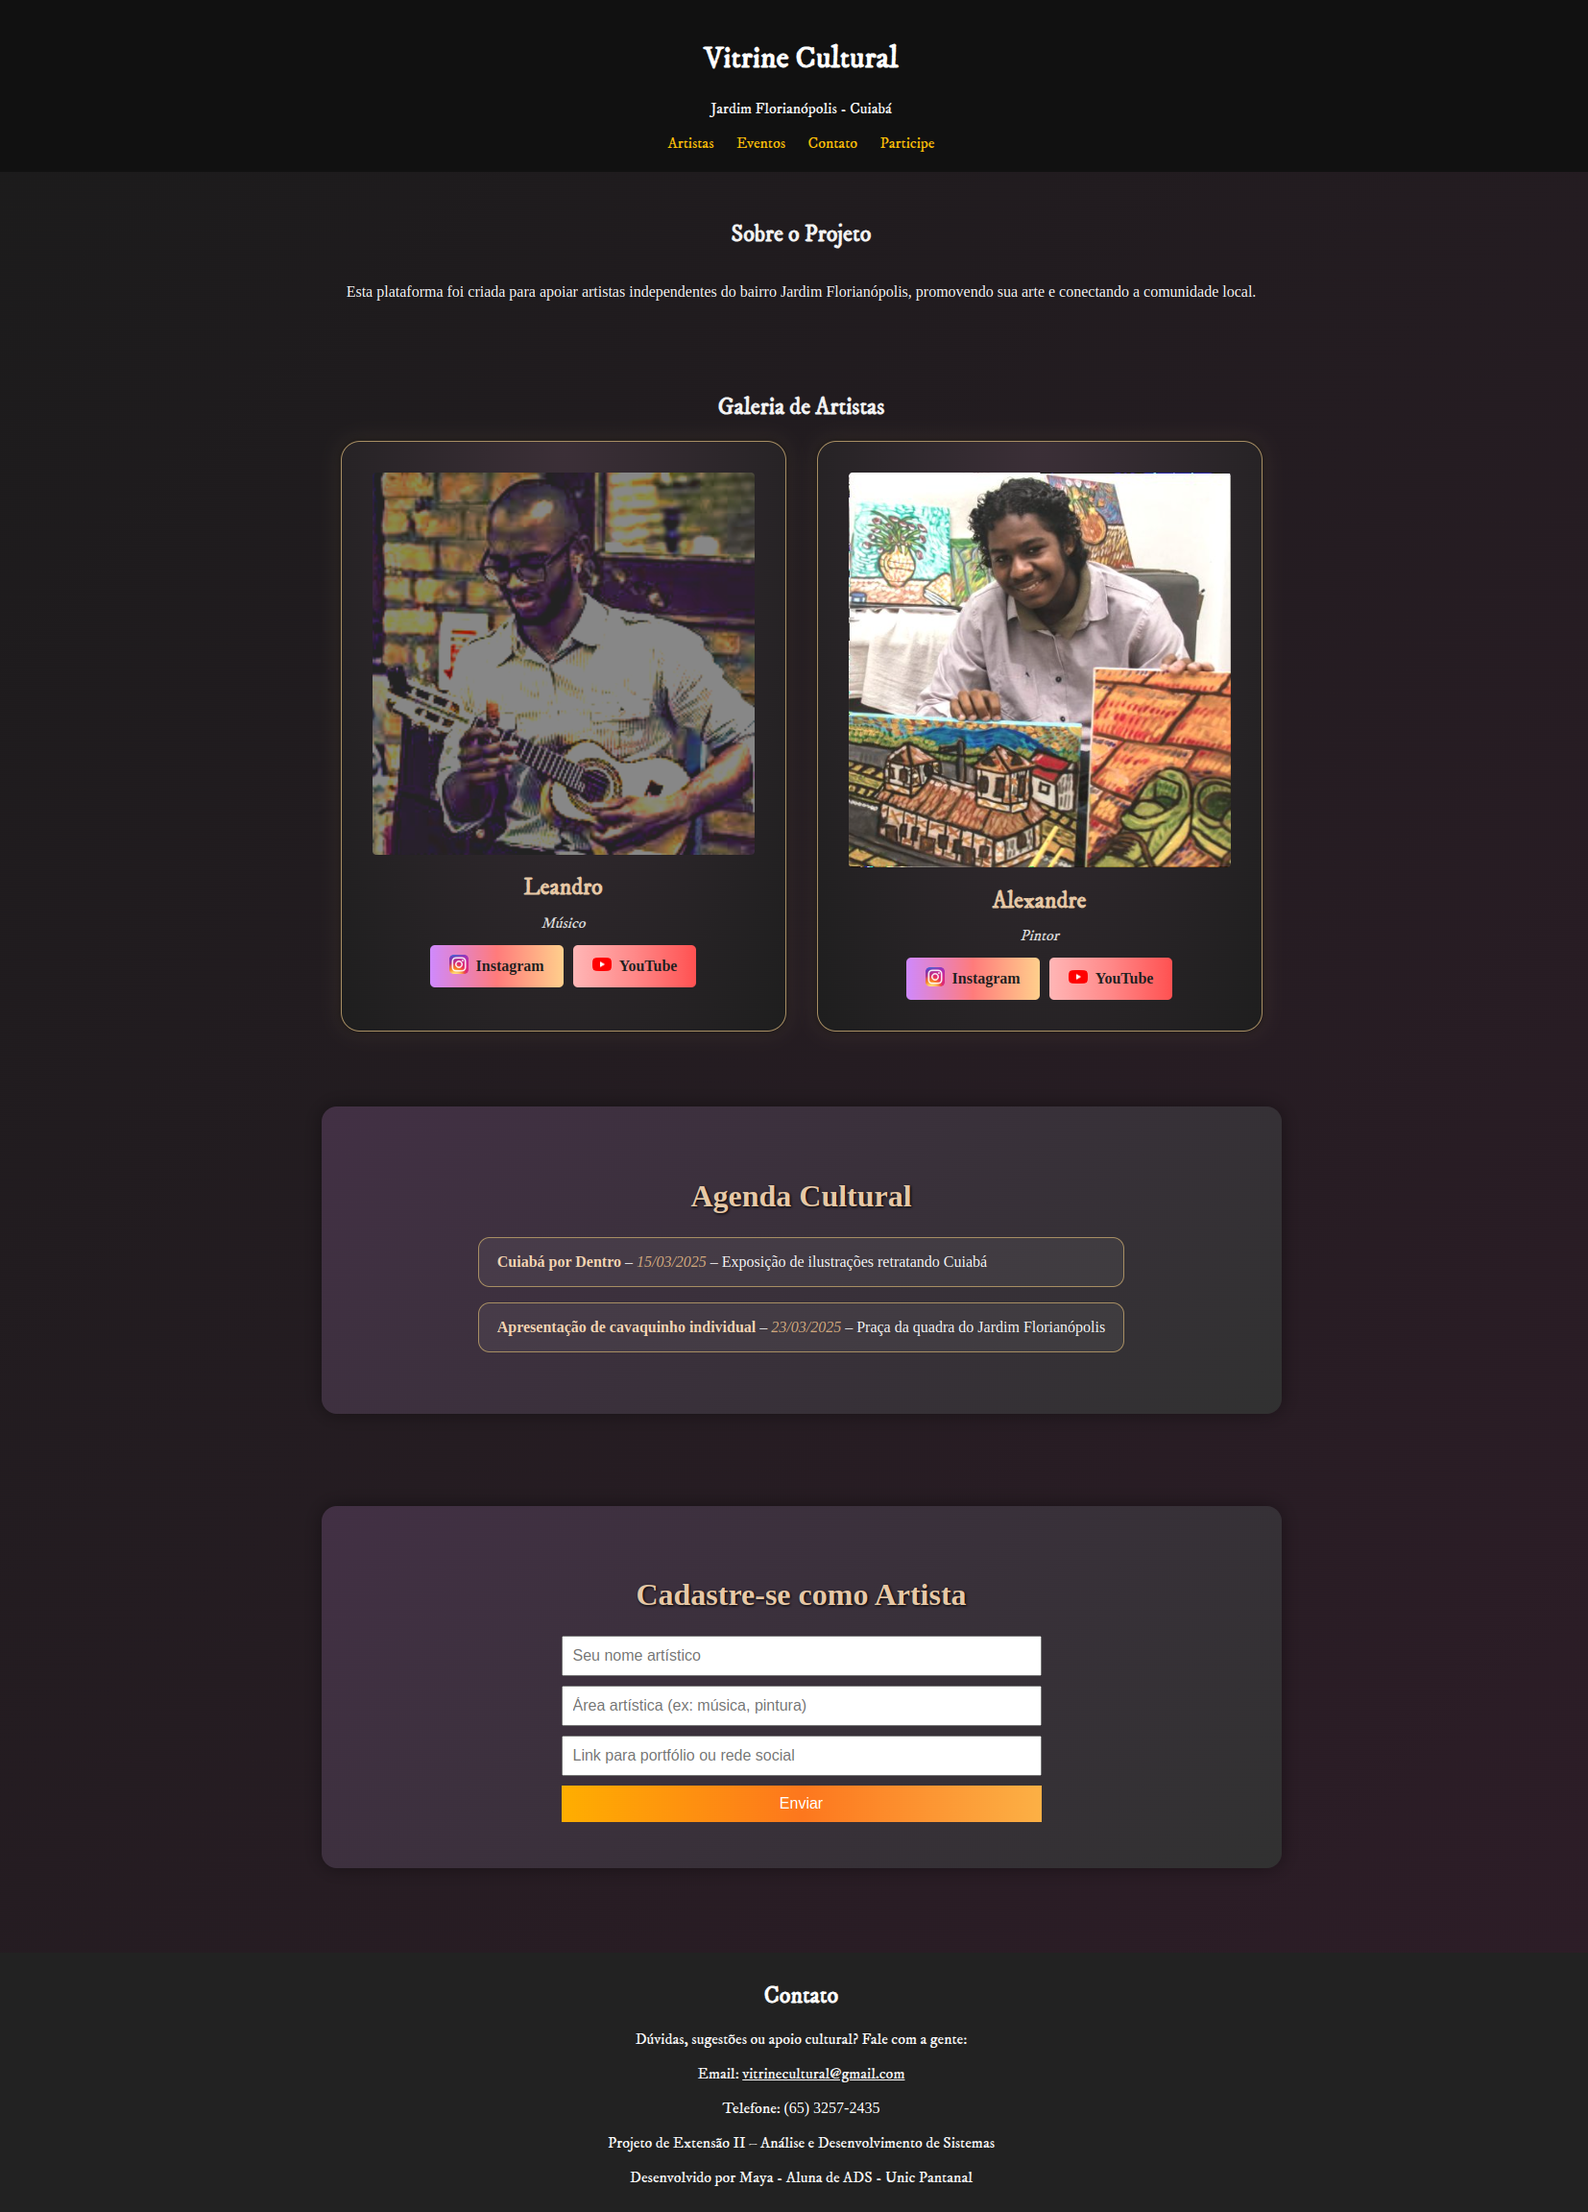
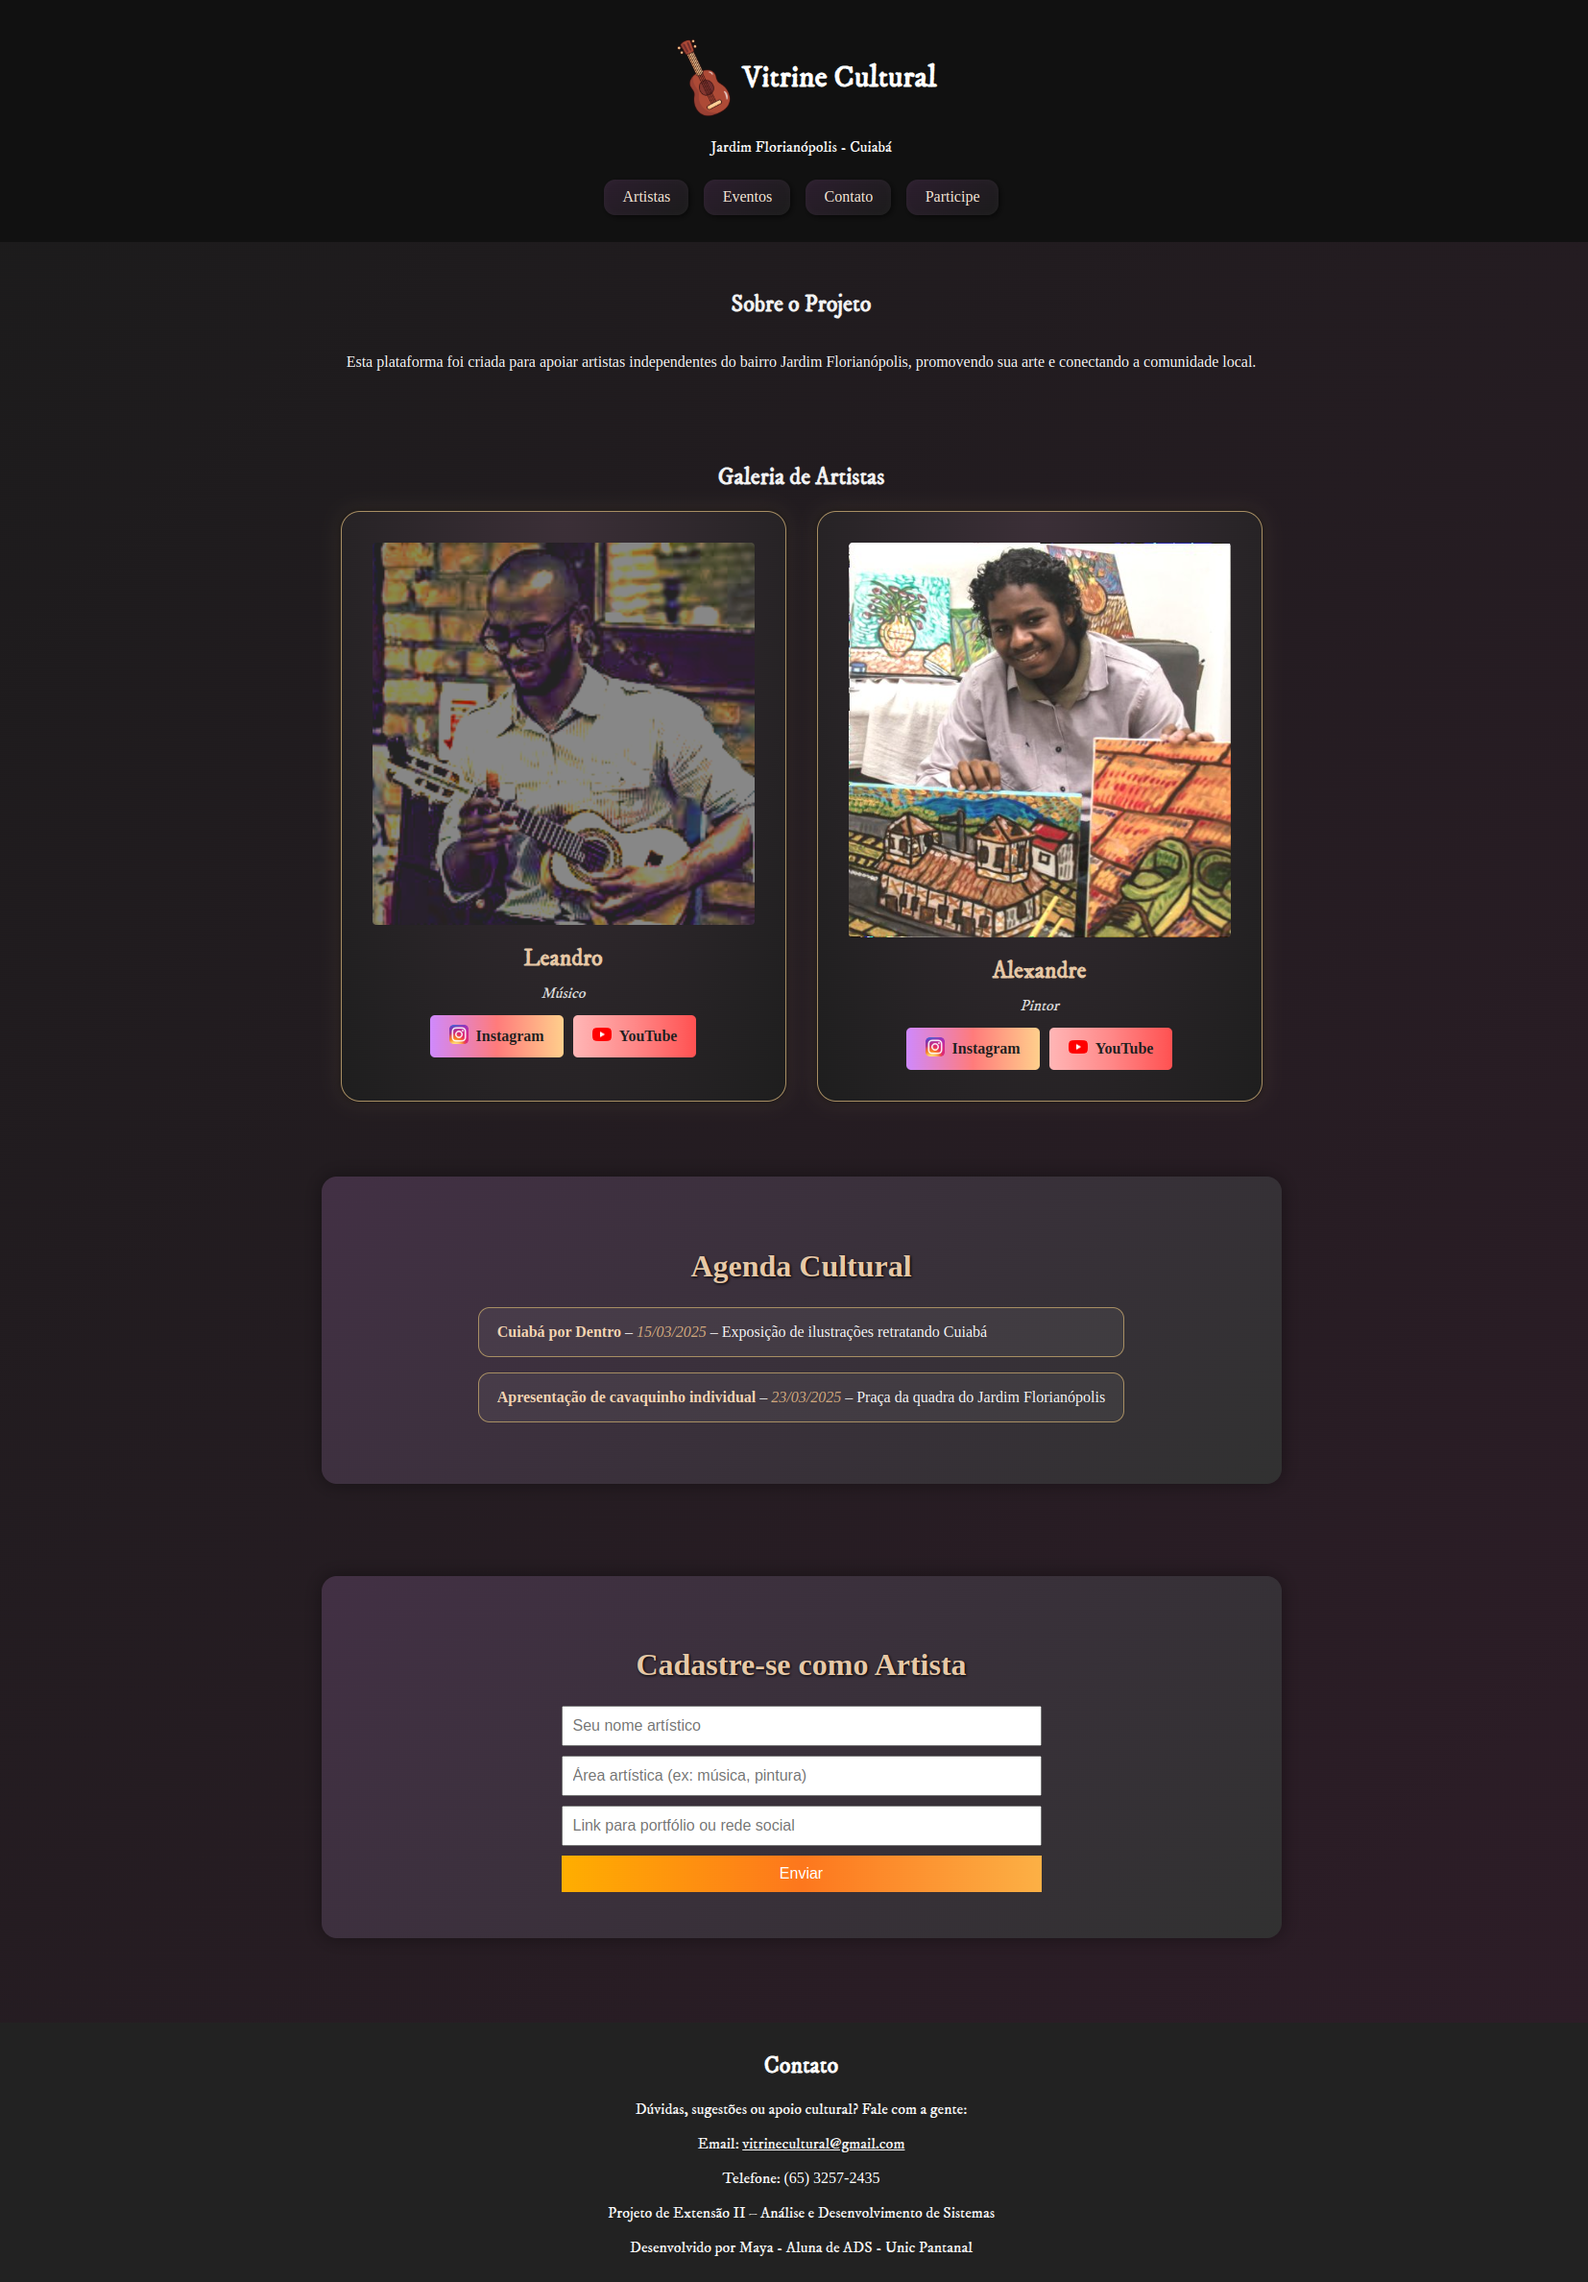
fix styles header

diff --git a/style.css b/style.css
@@ -15,6 +15,12 @@ body {
   align-items: center;
 }
 
+.header-title {
+    display: flex;
+    align-items: center;
+    justify-self: center;
+}
+
 #sobre {
     display:flex;
     flex-direction: column;
@@ -40,11 +46,31 @@ body {
     text-align: center;
   }
   
-  header nav a {
-    margin: 0 10px;
-    color: #ffc107;
-    text-decoration: none;
+  nav {
+    display: flex;
+    justify-content: center;
+    gap: 1rem;
+    padding: 0.5rem;
   }
+  
+  nav a {
+    text-decoration: none;
+    color: #f2e3d5;
+    font-family: 'Georgia', serif;
+    padding: 0.6rem 1.2rem;
+    border-radius: 12px;
+    background: linear-gradient(145deg, #2c1e2e, #1b1b1b);
+    box-shadow: 2px 2px 6px rgba(0,0,0,0.5), inset 0 0 6px rgba(255,255,255,0.03);
+    transition: all 0.3s ease;
+  }
+  
+  nav a:hover {
+    background: #a78e63;
+    color: #1b1b1b;
+    transform: scale(1.05);
+    box-shadow: 2px 2px 12px rgba(167, 142, 99, 0.6);
+  }
+  
   
   section {
     padding: 20px;

diff --git a/index.html b/index.html
@@ -10,7 +10,7 @@
 <body>
 
   <header>
-    <h1>Vitrine Cultural</h1>
+    <h1 class="header-title"><img src="./images/cavaquinho.png" width="80px"/>Vitrine Cultural</h1>
     <p>Jardim Florianópolis - Cuiabá</p>
     <nav>
       <a href="#artistas">Artistas</a>
